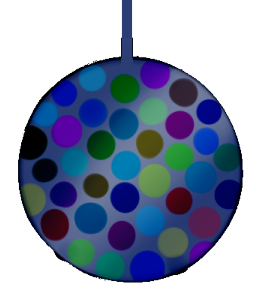
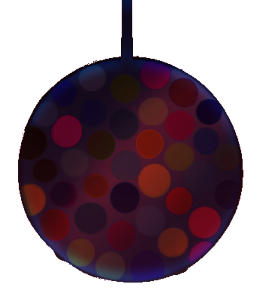
mer animasjoner

diff --git a/rutestyle.css b/rutestyle.css
@@ -34,18 +34,18 @@ text-align:center;
     height: 100%; 
     width:100%;
 }
-.mads 
-{
+.mads {
+    z-index: 6;
     left: 75%;
     top: 10%;
     height: 100%;
     width: 100%;
     background-image: url('mads.png');
     background-repeat: no-repeat;
-    animation-name:mads;
-    animation-duration:12s;
-    animation-iteration-count:infinite;
-    animation-direction:alternate;
+    animation-name: mads;
+    animation-duration: 12s;
+    animation-iteration-count: infinite;
+    animation-direction: alternate;
     animation-timing-function: linear;
 }
 
@@ -79,43 +79,82 @@ text-align:center;
         transform: rotate(-10deg);
     }
 }
-.diskoball {
-    background-image: url('diskoball.png');
+.diskoballA, .diskoballB 
+{
+    display:none;
     top: 50%;
     left: 50%;
     height: 100%;
     width: 100%;
-    transform:scale(25%);
+    transform: scale(100%);
+    position:absolute;
     background-repeat: no-repeat;
-    animation-name: diskoball;
     animation-iteration-count: 1;
-    animation-duration: 4s;
+    left: 43%;
+    top: -5%;
 }
 
-@keyframes diskoball
-{
+.diskoballA {
+    animation-duration: 4s;
+    animation-name: diskoball1;
+    background-image: url("diskoball.png");
+    z-index: 3;
+}
+
+.diskoballB {
+    opacity: 0;
+    animation-delay: 4s;
+    animation-duration: 3s;
+    animation-direction: reverse;
+    animation-iteration-count:infinite;
+    animation-name: diskoball2;
+    background-image: url("diskoball2.png");
+    z-index: 4;
+}
+
+@keyframes diskoball1 {
     0% 
     {
-        left:50%;
-        top:50%;
+        opacity: 0;
+        left: 43%;
+        top: -20%;
     }
 
     100% 
     {
-        left:100%;
-        top:100%;
+        left: 43%;
+        top: -5%;
+        opacity: 1;
+        animation-play-state: running;
     }
 }
+@keyframes diskoball2 {
+    0% 
+    {
+        opacity: 0;
+    }
+
+    50% 
+    {
+        opacity: 0.8;
+    }
+
+    100% {
+        opacity: 0;
+    }
+}
+
 .seline {
+    z-index: 6;
     left: 50%;
     height: 415px;
     width: 298px;
     background-image: url('seline.png');
     background-repeat: no-repeat;
-    animation-name:seline;
-    animation-duration:2s;
-    animation-iteration-count:infinite;
-    animation-direction:alternate;
+    animation-name: seline;
+    animation-duration: 1s;
+    animation-iteration-count: infinite;
+    animation-direction: alternate;
 }
 @keyframes seline {
     0% {
@@ -142,6 +181,7 @@ text-align:center;
 
 
 .harald {
+    z-index: 6;
     left: 30%;
     top: 40%;
     height: 256px;
@@ -153,7 +193,7 @@ text-align:center;
     animation-duration: 10s;
     animation-iteration-count: infinite;
     animation-direction: alternate-reverse;
-    animation-timing-function:cubic-bezier(.57,.94,.93,.09)
+    animation-timing-function: cubic-bezier(.57,.94,.93,.09)
 }
 @keyframes harald {
     0% {
@@ -198,11 +238,13 @@ text-align:center;
 }
 
 .dj {
-    left: 33%;
-    height: 128px;
-    width: 256px;
+    top: 0%;
+    left: 27%;
+    height: 100%;
+    width: 100%;
     background-image: url('dj.png');
     background-repeat: no-repeat;
+    z-index: 5;
 }
 
 .ayla {
@@ -213,29 +255,41 @@ text-align:center;
     background-image: url('ayla.png');
     background-repeat: no-repeat;
     animation-name: ayla;
-    animation-duration: 5s;
+    animation-duration: 3s;
     animation-iteration-count: infinite;
     animation-direction: alternate;
     animation-timing-function: linear;
+    z-index: 6;
 }
 
 @keyframes ayla {
     0% {
-        left: 20%;
-        top:5%;
+        left: 3%;
+        top:10%;
     }
-    25% {
-        left:5%;
+    
+    20% {
+        left:40%;
+        top:50%;
+    }
+   
+    40% {
+        right: 20%;
         top:20%;
     }
 
-    50% {
-        right:50%;
-        top:1%;
+    60%{
+        left:5%;
+        top:40%;
+    }
+
+    80%{
+        left:30%;
+        top:50%;
     }
     100%{
-        right:80%;
-        top:60%;
+        right:60%;
+        top:10%;
     }
 }
 

diff --git a/rutenett.html b/rutenett.html
@@ -17,6 +17,9 @@
 </head>
 
 <body>
+    <div class="diskoballA" id="diskoballA"></div>
+    <div class="diskoballB" id="diskoballB"></div>
+
     <h1>Team Oppgave</h1>
     <h2>Her er ett rutenett med en liten bonus</h2>
     <h3>
@@ -38,7 +41,6 @@
         <div class="art" id="art">
             <div class="diskoEffekt" style="background-image: url('sceneEffekt1.png')"></div>
             <div class="dj" style="position:absolute"></div>
-            <div class="diskoball" style="position:absolute"></div>
             <div id="ayla" class="ayla" style="position:absolute"></div>
             <div id="mads" class="mads" style="position:absolute"></div>
             <div id="seline" class="seline" style="position:absolute"></div>

diff --git a/rutefunk.js b/rutefunk.js
@@ -13,11 +13,17 @@ function RandomColor(element)
 
 function diskoToggle()
 {
+	// Toggle kuler
+	var a = document.getElementById('diskoballA');
+	var b = document.getElementById('diskoballB');
+
 	if (diskoEnabled == true)
 	{
 		diskoEnabled = false;
 		music.pause();
 		art.style.display = 'none';
+		a.style.display = 'none';
+		b.style.display = 'none';
 	}
 	else
 	{
@@ -25,13 +31,15 @@ function diskoToggle()
 		music.play();
 		music.volume = 0.5;
 		art.style.display = 'block';
+		a.style.display = 'block';
+		b.style.display = 'block';
     }
 }
 
 function diskoMode()
 {
 	if (diskoEnabled)
-	{
+	{		
 		for (var i = 0; i < 9; i++)
 		{
 			RandomColor(document.getElementById(i));
